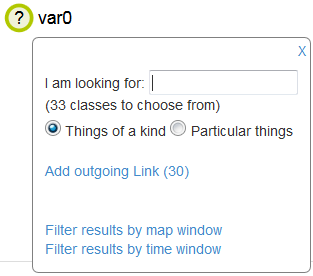
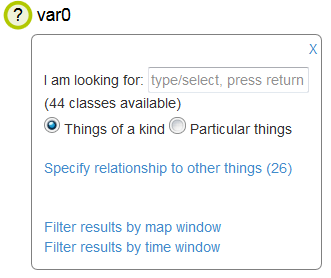
help tutorial

Changed region(s): [[0.0, 0.0, 1.0, 1.0]]

diff --git a/code/index.html b/code/index.html
@@ -215,73 +215,87 @@
 
 	<div id="helpDialog" title="SPEX - Help">		
 		
-		<h3>How to explore and query a SPARQL endpoint in space and time.</h2>
-				<p> This tutorial shows how queries can be built interactively in SPEX. The endpoint can be entered in the text field on the right.</p>
-				<p><img src="img/spex_tut0.png" alt="spex bar" width="100%"></p>
-				<p><font color = "red">Note:</font> Red texts warn you that the query is unsuccessful or the endpoint is not responding.</p>
+		<h3>How to explore and query a SPARQL endpoint in space and time.</h2>				
+				<p>With  <a href="http://lodum.de/" >SPEX</a>, you can query and simultaneously explore a SPARQL endpoint without knowing what it contains. 
+				For example, you can find maps which represent Napoleon's invasion to Russia in 1812 together with all battles, 
+				their place and their number of participants by interactively constructing the following visual query on the SPARQL endpoint <a href="http://data.uni-muenster.de/historicmaps/sparql" >http://data.uni-muenster.de/historicmaps/sparql</a>:</p>
+				<p><img src="img/invasionexample.png" alt="spex bar" width="100%"></p>				
+				Results are displayed in the grey table (with node labels as table columns) as well as in the map and the timeline on the right. 
+				In this tutorial, you learn how to explore and query endpoints by space, time and content.
+				<p><font color = "red">Note:</font> Red texts warn you if the endpoint is not responding.</p>
 				<br>
-				With SPEX, you can build complex queries interactively. For example: show me all battles of Napoleon's invasion to Russia in 1812, 
-				together with their place, the number of participants, and the temperature:
-				<p><img src="img/invasionexample.png" alt="spex bar" width="100%"></p>
-				<br>
-		<h4>(1) Start with an empty question (node with question mark).</h4>
+		<h4>(1) Start with an empty question.</h4>			
+			<p><img src="img/spex_tut01.png" alt="spex start" width="80px"></p>
+			<p>At the beginning, there is only a single node with question mark and without any further restriction. You can make your query more specific by adding constraints to a node.</p>
 			
-			<p><img src="img/spex_tut01.png" alt="spex start" width="14%"></p>
-			<p>At the beginning, there is only a single node with question mark and without any further restriction, which simply queries for all things that have space or time in them. 
-			If there are any results, they are immediately shown below in a table (with node labels as table columns) as well as in the map and the timeline on the right. </p>
-			<p><img src="img/spex_tut1.png" alt="spex start" width="100%"></p>
 				<br>
 			
-		<h4>(2) Make your question more specific by selecting a node and opening its context menu.</h4>
+		<h4>(2) Restrict your query by restricting a node to a class.</h4>
 			<ul>
-				<li>Select a node and open its context menu</li>
-				<p><img src="img/spex_tut20.png" alt="spex bar" width="30%"></p>
-				<li>Type in text to search for kinds of things (classes).</li>
-				<p><img src="img/spex_tut2.png" alt="spex bar" width="30%"></p>
-				<li>Press return to restrict query to things of this class (and see how results change).</li>
-				<p><img src="img/spex_tut21.png" alt="spex bar" width="14%"></p>
-				<li>Add in- or outgoing links to other things.</li>
-				<p><img src="img/spex_tut3.png" alt="spex bar" width="30%"></p>
-				<li>Type in text to search for links </li>
-				<p><img src="img/spex_tut4.png" alt="spex bar" width="65%"></p>
-				<li>Press return to add a new edge to the query graph (and see how results change).</li>
-				<p><img src="img/spex_tut5.png" alt="spex bar" width="30%"></p>
-				<li>Filter results by current map or time window (and see how results change).</li>
-				<p><img src="img/spex_tut6.png" alt="spex bar" width="30%"></p>
-				<li>Remove filter again.</li>
-				<p><img src="img/spex_tut7.png" alt="spex bar" width="30%"></p>
+				<li>Select a node and open its context menu. </li>
+				<p><img src="img/spex_tut20.png" alt="spex bar" width="28%"></p>
+				<li>The first option is to restrict the things in this node by a class. If you enter the text field or if you type in something, SPEX suggests classes you may be looking for.
+				<p><img src="img/spex_tut2a.png" alt="spex bar" width="30%"></p>
+				<li>Select a class (e.g. "Map") and press return to restrict the node to things of this class.</li>
+				<p><img src="img/spex_tut2.png" alt="spex bar" width="30%"></p>	
+				<li>See how the label of the node changes and how the results in this node are filtered to things of this class.				
+				<p><img src="img/spex_tut21.png" alt="spex bar" width="80px"></p>
+				<p><img src="img/spex_tut211.png" alt="spex bar" width="70%"></p>
 			</ul>
-			<br>
-		<h4>(3) Explore results.</h4>
+			<br>		
+		<h4>(3) Restrict node by relationship to other things.</h4>
 			<ul>	
-				<li>Zoom into space / time by scrolling mouse over map / time line. </li>
-				<p><img src="img/spex_tut8.png" alt="spex bar" width="50%"></p>
-				<li>Hover over a map object or time event to reveal the name of the corresponding result.</li>	
-				<li>Hover mouse over a result cell to highlight/rezoom to the result in space and time.</li>
-				<p><img src="img/spex_tut9.png" alt="spex bar" width="100%"></p>
-				<li>Click on a result cell to fix the current result zoom (and double click to release again).</li>
-				<li>Click on a result name (URI link) to open its description on the Web.</li>							
+				<li>You can also restrict a node by specifying its relationship to other things. 
+				In the context menu, there is a relationship link with the number of available relationships in brackets from this node to something else.
+				Click on the link. 
+				</li>
+				<p><img src="img/spex_tut3.png" alt="spex bar" width="30%"></p>
+				<li>Type in text or scroll in suggested list to select a relationship, for example the "dct:creator" of a map. </li>
+				<p><img src="img/spex_tut4.png" alt="spex bar" width="55%"></p>
+				<li>Press return to add a new edge to the query graph which restricts results to those things that are in this relationship. See how results change.</li>
+				<p><img src="img/spex_tut5.png" alt="spex bar" width="22%"></p>
+				<p><img src="img/spex_tut52.png" alt="spex bar" width="80%"></p>				
 			</ul>
 			<br>
-		<h4>(4) Further restrict query by particular things.</h4>
+		<h4>(3) Restrict node to particular things.</h4>
 			<ul>
-				<li>Select a question marked node to open its content menu.</li>
-				<p><img src="img/spex_tut101.png" alt="spex bar" width="8%"></p>
-				<li>Select button "particular things".</li>
-				<p><img src="img/spex_tut10.png" alt="spex bar" width="30%"></p>
-				<li>Type in text to search for particular things contained in this node and press return.</li>
-				<p><img src="img/spex_tut11.png" alt="spex bar" width="100%"></p>
+				<li>You can furthermore restrict nodes to particular things. First, select a node. </li>
+				<p><img src="img/spex_tut101.png" alt="spex bar" width="50px"></p>
+				<li>In the node's context menu, press button "Particular things".</li>
+				<p><img src="img/spex_tut10.png" alt="spex bar" width="25%"></p>
+				<li>Select a particular thing, such as a particular map creator, from the suggested list and press return. 
+				Now the node looses its question mark and is labelled by the name of the thing.</li>
+				<p><img src="img/spex_tut11a.png" alt="spex bar" width="30%"> <img src="img/spex_tut11.png" alt="spex bar" width="60%"> </p>
 			</ul>
-			<br>			
+			<br>	
+		<h4>(5) Explore results and filter by space and time.</h4>
+			<ul>	
+				<li>Zoom into space / time by scrolling mouse over map / time line. Hover over a map object or time event to reveal the name of the corresponding result. </li>
+				<p><img src="img/spex_tut81.png" alt="spex bar" width="40%"></p>
+				<p><img src="img/spex_tut82.png" alt="spex bar" width="40%"></p>				
+				<li>Hover mouse over a table result cell to zoom to the result in space and time. In order to fix the current space-time zoom, just click on the result cell (and double click to release again).</li>
+				<p><img src="img/spex_tut9.png" alt="spex bar" width="60%"><img src="img/spex_tut9a.png" alt="spex bar" width="40%"></p>
+				<li>Click on a result name (URI link) to open its description on the Web.</li>	
+				<p><img src="img/spex_tut12.png" alt="spex bar" width="70%"></p>
+				<li>You can also filter nodes by the current map or time window. 
+				For example, you can filter a node for all things located in Egypt by zooming the map window to Egypt and by pressing the link "Filter results by map window" in the context menu of the node.</li>
+				<p><img src="img/spex_tut6.png" alt="spex bar" width="40%" ><img src="img/spex_tut6a.png" alt="spex bar" width="40%" ></p>
+				<li>Remove the filter again by clicking on the corresponding link in the context menu.</li>
+				<p><img src="img/spex_tut7.png" alt="spex bar" width="25%" >
+								
+			</ul>
+			<br>
+					
 		<h4>If you want to know more ....</h4>	
 		<p> Every node stands for particular things described in the endpoint. Nodes with question marks are variables that stand for all things that fit into this node. 
 			You can add class labels to variable nodes in order to restrict things in that node to a class. Furthermore, you can add links to a node in order to filter out things with links to other things.
 			Nodes without question marks stand for one particular thing. Nodes in light green indicate that spatial or temporal information is present, nodes in dark green indicate the contrary.</p>	
-			For further information, see...
+			The endpoint can be entered in the text field on the right.</p>
+				<p><img src="img/spex_tut0.png" alt="spex bar" width="100%"></p>
 		<h3>About</h2>
 		<p>
-				Spex is an spatio-temporal exploration and query tool for SPARQL endpoints. It is part of the development in LODUM and LIFE.
-				See <a href="http://lodum.de/" target="_blank">http://lodum.de/</a>.
+		Spex is a spatio-temporal exploration and query tool for SPARQL endpoints. It is part of the development in <a href="http://lodum.de/">LODUM</a> and LIFE. For further information about SPEX development, see us on <a href="https://github.com/lodum/SPEX">Github</a>.
+				
 		</p>	
 	</div>
 	

diff --git a/code/js/queryPane.js b/code/js/queryPane.js
@@ -337,12 +337,12 @@ var queryPane = {
 
 		if (queryPane.selected.spConstraint) {			
 				if (queryPane.selected.spConstrSet) {constraintSpLinks = '<br><br> <a href="javascript:void(0)" onclick="queryPane.removeSpConstraint();">Remove Spatial Filter</a>';} 
-				else {constraintSpLinks = '<br><br><a href="javascript:void(0)" onclick="queryPane.setSpConstraint();" title="Go to map and set desired search area by zooming in/out, only after that click this link.">Filter results by map window</a>';};				
+				else {constraintSpLinks = '<br><br><a href="javascript:void(0)" onclick="queryPane.setSpConstraint();" title="Go to map and set search area by scrolling in/out. Then click this link.">Filter results by map window</a>';};				
 		};
 
 		if (queryPane.selected.teConstraint) {
 				if (queryPane.selected.teConstrSet) {constraintTeLinks = '<br><a href="javascript:void(0)" onclick="queryPane.removeTeConstraint();">Remove Temporal Filter</a>';} 
-				else {constraintTeLinks = '<br><a href="javascript:void(0)" onclick="queryPane.setTeConstraint();" title="Click this link, then go to time slider and set desired search time interval by scrolling.">Filter results by time window</a>';};	
+				else {constraintTeLinks = '<br><a href="javascript:void(0)" onclick="queryPane.setTeConstraint();" title="Go to time slider and set search interval by scrolling in/out. Then click this link.">Filter results by time window</a>';};	
 		};
 
 		d3.select("#contextMenu")

diff --git a/code/css/spex.css b/code/css/spex.css
@@ -66,8 +66,8 @@ body, html {
    
 }
 #nav_help{
-  display: inline; 
-	float: left; 	 
+  display: inline; 	 
+   text-align: center;	
    
 }
 
@@ -96,6 +96,8 @@ body, html {
 	height: 100%;
   width: 100%;
 }
+
+
 
 #result_container {
   float: center;
@@ -179,7 +181,10 @@ body, html {
 } 
 
 .navDialog .ui-dialog-titlebar {
-  background: #eee;
+  background: #eee; 
+}
+a:link {
+    
 }
 
 .ui-autocomplete {

diff --git a/code/js/spex.js b/code/js/spex.js
@@ -42,9 +42,9 @@ var spex = new function(){
 		
 		$("#helpDialog").dialog( {
 			autoOpen: false,
-			height: ($(window).height() * 0.7),
-			width: 700,
-			reziable: false,
+			height: ($(window).height() * 0.9),
+			width: 1000,
+			//reziable: false,
 			modal: true,
 			dialogClass: 'navDialog'
 		});		
